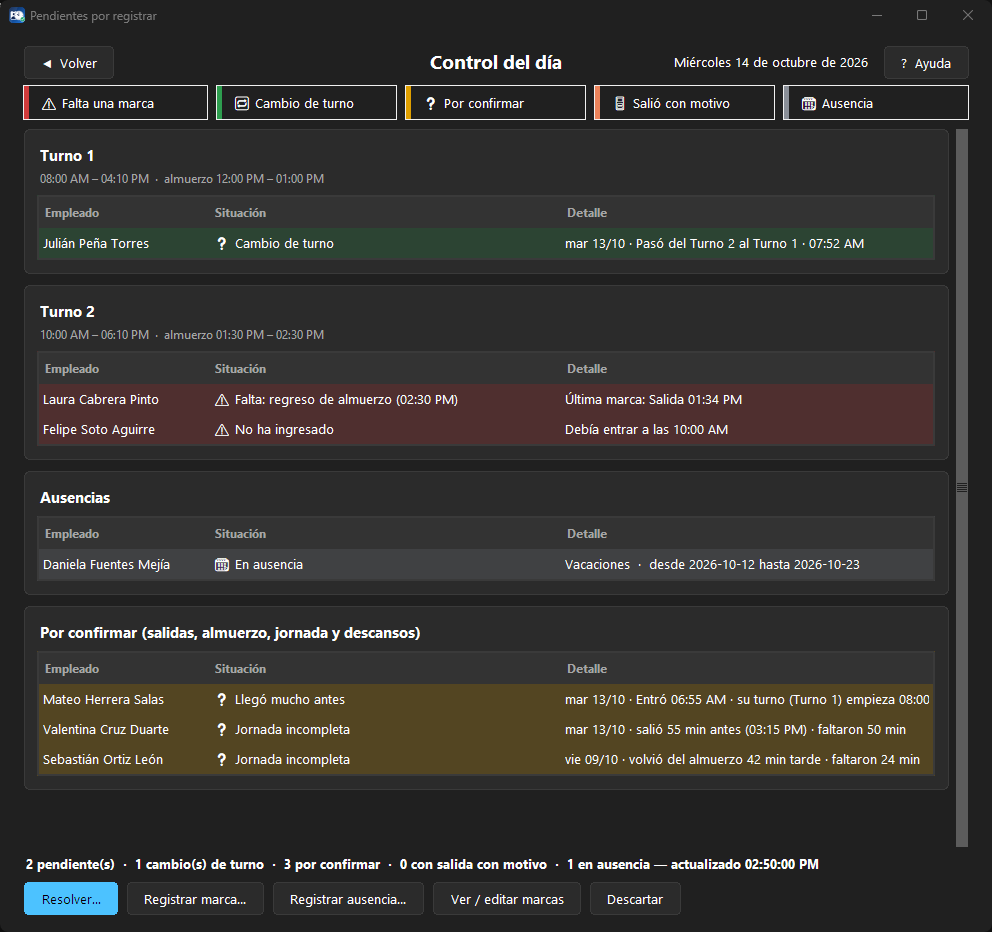
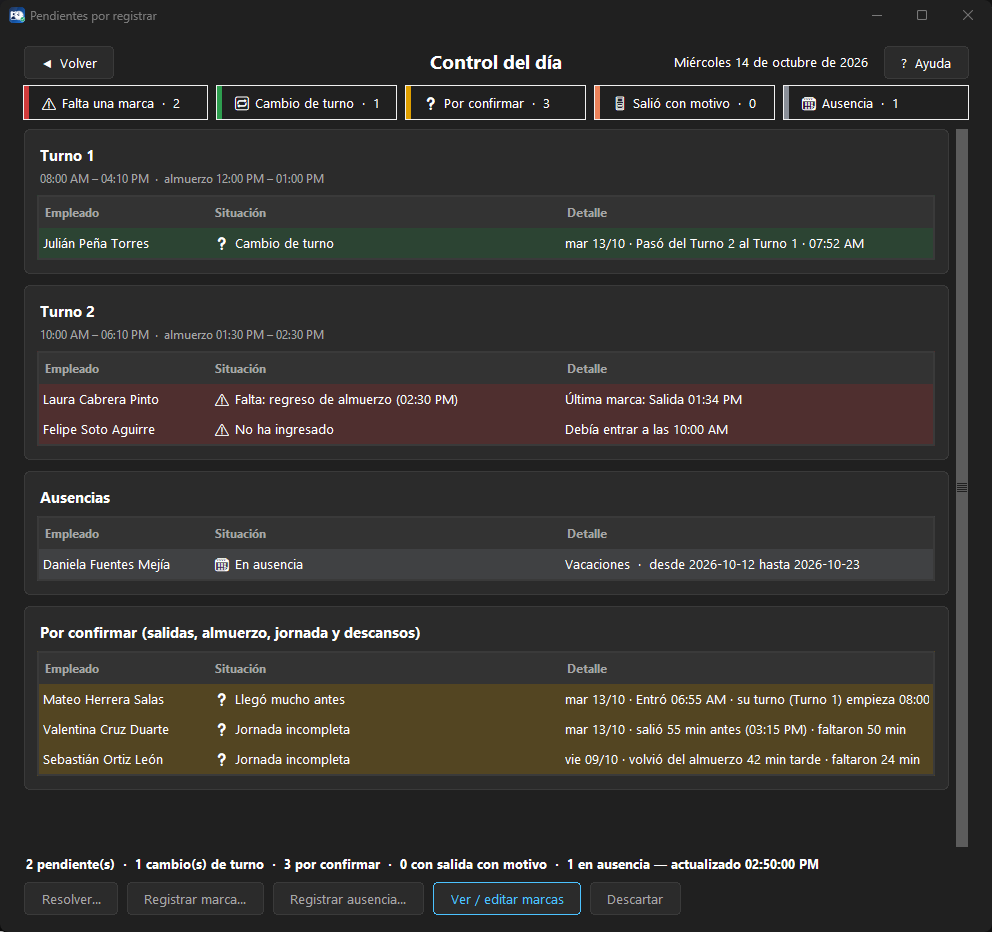
Portada: capturas nuevas de la 1.11.2 y el cierre de periodo con horas extra por pagar
Actualiza todas las capturas con el programa actual (datos de ejemplo inventados),
agrega Generar reporte y el aviso de horas extra por pagar, y completa la lista
de lo que hace el programa.

diff --git a/README.md b/README.md
@@ -66,6 +66,10 @@ Claro, oscuro, **alto contraste** (para leer sin esfuerzo) o **personalizado** c
 
 <p align="center"><img src="docs/capturas/17_gestionar_empleados.png" width="620" alt="Gestionar empleados">&nbsp;<img src="docs/capturas/18_editar_registro.png" width="620" alt="Editar registro"></p>
 
+**Cerrar el período y generar el reporte**: el reporte se genera en dos pasos (de qué período y qué quieres en el Excel), con un aviso de color que dice si el reporte cierra el período. Antes de generar, el programa avisa de lo que sigue sin resolver y de las **horas extra por pagar**: quién las tiene y, de una vez, se dan por pagadas o se dejan abiertas para el siguiente período (donde se pueden seguir usando para compensar):
+
+<p align="center"><img src="docs/capturas/21_generar_reporte.png" width="520" alt="Generar reporte">&nbsp;<img src="docs/capturas/22_horas_extra_por_pagar.png" width="520" alt="Horas extra por pagar al cerrar el período"></p>
+
 **Estadísticas** para ver cómo va el personal de un vistazo: puntualidad, llegadas tarde, horas extra y ausencias:
 
 <p align="center"><img src="docs/capturas/19_estadisticas.png" width="760" alt="Estadísticas"></p>
@@ -78,7 +82,8 @@ Claro, oscuro, **alto contraste** (para leer sin esfuerzo) o **personalizado** c
 
 - **Marcación** de entrada y salida por código, código de barras, lector RFID o número de identificación, con foto opcional y confirmación por voz.
 - **Pendientes del día** por turno: marcas que faltan, cambios de turno, llegadas muy temprano, salidas con motivo y jornadas incompletas.
-- **Decisiones con una persona al mando:** el tiempo que no se cubrió se justifica, se descuenta o se compensa con horas extra, siempre eligiéndolo alguien, con el motivo anotado.
+- **Decisiones con una persona al mando:** el tiempo que no se cubrió se justifica, se descuenta o se compensa con horas extra (del período anterior o del actual), siempre eligiéndolo alguien, con el motivo anotado.
+- **Cierre de período:** al generar el reporte avisa de lo pendiente y de las horas extra por pagar, que se dan por pagadas o se dejan abiertas para el siguiente período.
 - **Turnos fijos, rotativos y de apoyo**, con detección del cambio de turno según la hora de llegada.
 - **Editar registro** para corregir o completar las marcas de un empleado.
 - **Ausencias** (vacaciones, incapacidades, permisos por horas y otras) con avisos en la campanita.
@@ -87,7 +92,7 @@ Claro, oscuro, **alto contraste** (para leer sin esfuerzo) o **personalizado** c
 - **Estadísticas** de puntualidad, horas extra y ausencias.
 - **Gestión de empleados** y turnos.
 - **Respaldos automáticos** y copias externas (USB o nube), con restauración guiada.
-- Temas claro, oscuro, de alto contraste y personalizado, color de acento y tamaño de letra ajustable.
+- Temas claro, oscuro, de alto contraste y personalizado, color de acento y tamaño de letra ajustable. Las ventanas se abren centradas en la pantalla y se ajustan a su alto.
 - Se **repara solo** si la base de datos viene de una versión vieja, y avisa si falta o se dañó.
 
 ## Instalación y actualización
